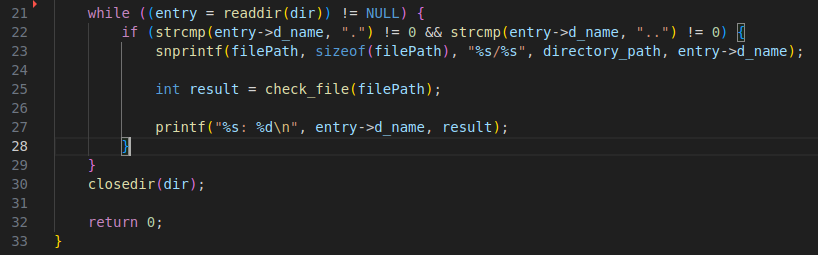
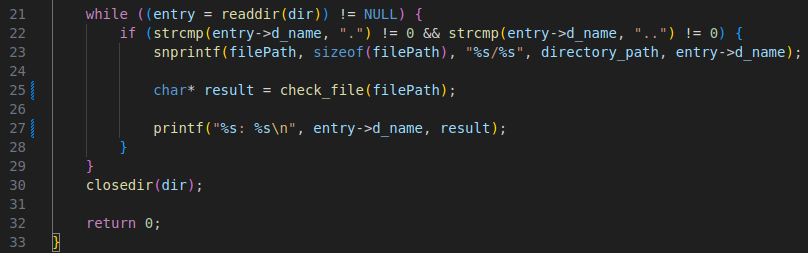
last

diff --git a/main.c b/main.c
@@ -5,7 +5,7 @@
 
 const char* directory_path = "SomeFiles";
 
-int check_file(const char* path);
+char* check_file(const char* path);
 
 int main() {
     DIR *dir = opendir(directory_path);
@@ -22,9 +22,9 @@ int main() {
         if (strcmp(entry->d_name, ".") != 0 && strcmp(entry->d_name, "..") != 0) {
             snprintf(filePath, sizeof(filePath), "%s/%s", directory_path, entry->d_name);
 
-            int result = check_file(filePath);
+            char* result = check_file(filePath);
 
-            printf("%s: %d\n", entry->d_name, result);
+            printf("%s: %s\n", entry->d_name, result);
         }
     }
     closedir(dir);
@@ -33,7 +33,10 @@ int main() {
 }
 
 
-int check_file(const char* path) {
+char* check_file(const char* path) {
+    static char time_str[100];
+    char check_str[100];
+
     struct stat file_stat;
     
     int err = stat(path, &file_stat);
@@ -45,5 +48,19 @@ int check_file(const char* path) {
     time_t now = time(NULL);
     time_t seven_days_ago = now - (7 * 24 * 60 * 60);
 
-    return file_stat.st_mtime >= seven_days_ago;
+    int check = file_stat.st_mtime >= seven_days_ago;
+
+    if (check) {
+        struct tm *time_info = localtime(&file_stat.st_mtime);
+        
+        strftime(time_str, sizeof(time_str), "%a %b %d %H:%M:%S %Y", time_info);
+
+        snprintf(check_str, sizeof(check_str), "\nModified: %d", check);
+        
+        strcat(time_str, check_str);
+
+        return time_str;
+    }
+    else
+        return 0;
 }
